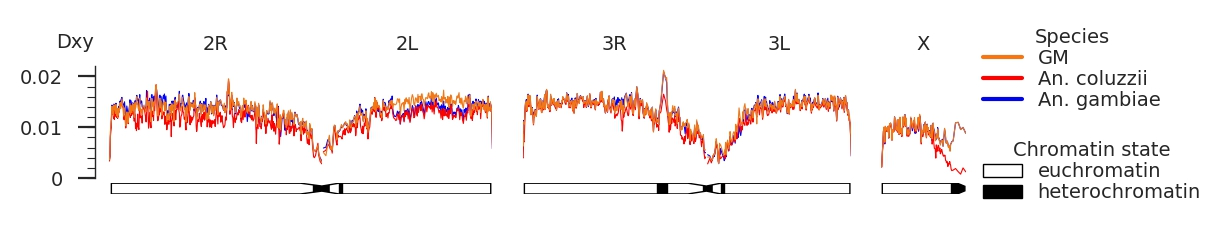
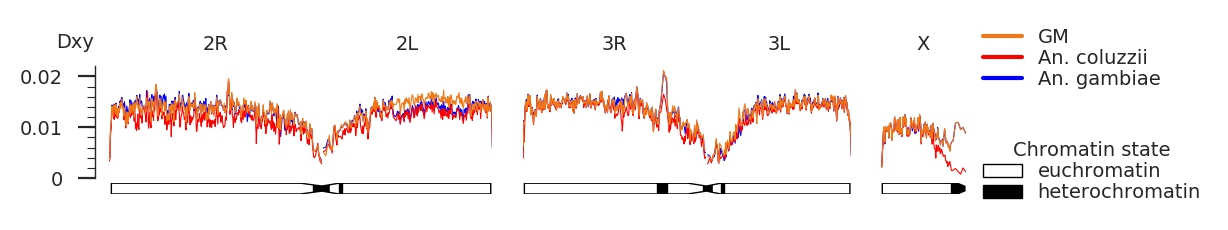
Removed bottom three plots from main figure

Changed region(s): [[0.7736, 0.1217, 0.9593, 0.487], [0.8046, 0.3043, 0.8355, 0.3652]]

diff --git a/notebooks/refdiff/refdiff_phase2_plots.py b/notebooks/refdiff/refdiff_phase2_plots.py
@@ -157,7 +157,7 @@ for chrom in chroms:
 
 
 # Now plot the dxy along the chromsomomes
-def plot_dxy(chrom, ax, dxy, pops=None, offset=5, legend_offset=0, legend_frameon=False, labely = True, sublabel = '', **kwargs):
+def plot_dxy(chrom, ax, dxy, pops=None, offset=5, legend_offset=0, legend_frameon=False, labely = True, label_legend = False, sublabel = '', **kwargs):
 	if chrom == '2R':
 		sns.despine(ax=ax, bottom=True, offset=offset)
 		ax.set_yticks([0, 0.01, 0.02], minor=False)
@@ -186,7 +186,7 @@ def plot_dxy(chrom, ax, dxy, pops=None, offset=5, legend_offset=0, legend_frameo
 
 	# Draw the legend
 	if chrom == 'X':
-		if labely:
+		if label_legend:
 			legend_title = 'Species'
 		else:
 			legend_title = None
@@ -270,22 +270,18 @@ fig_assemble(['An. gambiae', 'An. coluzzii', 'GW'], fn = 'refdiff_phase2_GW_vs_s
 fig_assemble(['An. gambiae', 'An. coluzzii', 'KE'], fn = 'refdiff_phase2_KE_vs_species.jpg')
 
 # And now the full combined figure
-# This would be to show difference against the genome is all plots
+fig_assemble([['An. gambiae', 'An. coluzzii'], 
+              ['BFcol', 'AOcol', 'GHcol'], 
+              ['CMgam', 'UGgam', 'BFgam']],
+              fn = 'refdiff_phase2_combined.jpg')
+
+# Use this code instead to include some plots showing Dxy between populations 
 #fig_assemble([['An. gambiae', 'An. coluzzii'], 
 #              ['BFcol', 'AOcol', 'GHcol'], 
 #              ['CMgam', 'UGgam', 'BFgam'],
-#              ['An. gambiae', 'An. coluzzii', 'GM'],
-#              ['An. gambiae', 'An. coluzzii', 'GW'],
-#              ['An. gambiae', 'An. coluzzii', 'KE']],
+#              ['GM - An. gambiae', 'GM - An. coluzzii'],
+#              ['GW - An. gambiae', 'GW - An. coluzzii'],
+#              ['KE - An. gambiae', 'KE - An. coluzzii']],
 #              fn = 'refdiff_phase2_combined.jpg')
-
-# But instead we want to show Dxy between populations for the last three
-fig_assemble([['An. gambiae', 'An. coluzzii'], 
-              ['BFcol', 'AOcol', 'GHcol'], 
-              ['CMgam', 'UGgam', 'BFgam'],
-              ['GM - An. gambiae', 'GM - An. coluzzii'],
-              ['GW - An. gambiae', 'GW - An. coluzzii'],
-              ['KE - An. gambiae', 'KE - An. coluzzii']],
-              fn = 'refdiff_phase2_combined.jpg')
 
 
